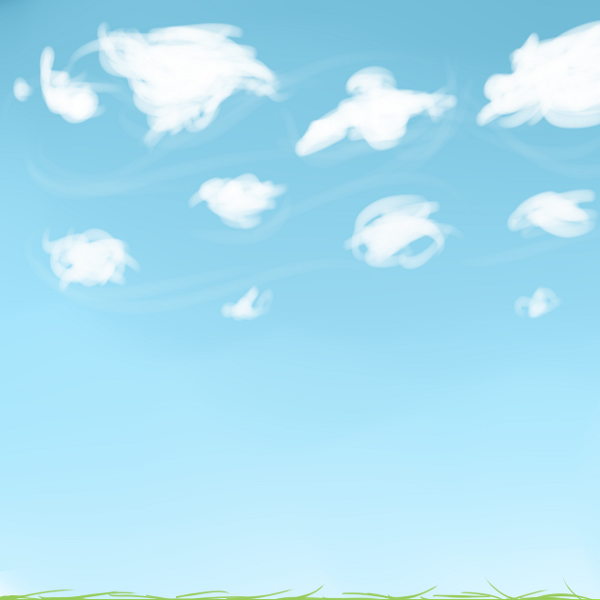
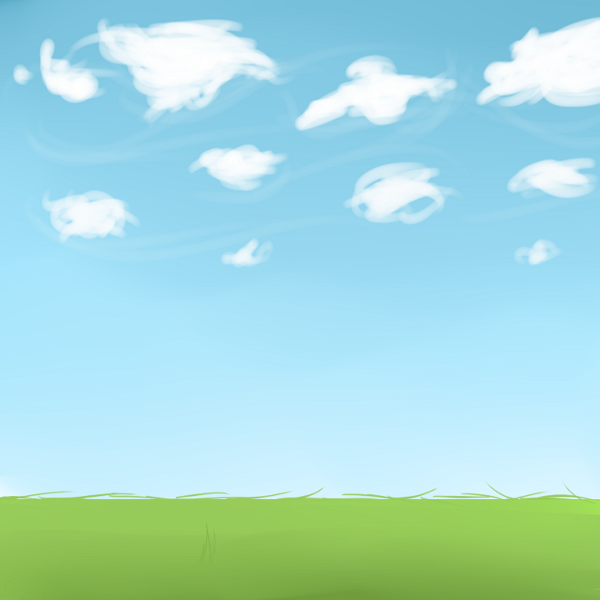
Fysiikat toimii. Kuplat spawnaa rajojen sisälle. Game Over -logiikka uupuu.

diff --git a/Peli/game/src/Game.js b/Peli/game/src/Game.js
@@ -1,10 +1,9 @@
 Bubble.Game = function(game){
 	// define variables for Bubble.Game
-	this._wallCollisionGroup = null;
-	this._bubbleCollisionGroup = null;
 	this._spawnBubbleTimer = 0;
 	this._fontStyle = null;
 	this._mouseBody = null;
+	this._bubbleArray = new Array();
 	// define Bubble variables to reuse them in Bubble.item functions
 	Bubble._scoreText = null;
 	Bubble._score = 0;
@@ -13,39 +12,30 @@ Bubble.Game.prototype = {
 	create: function(){
 		// start the physics engine
 		this.physics.startSystem(Phaser.Physics.P2JS);
-		this.physics.p2.gravity.y = 200;
-		// turn on impact events for the world
-    	this.physics.p2.setImpactEvents(true);
-    	this.physics.p2.defaultRestitution = 0.8;
-    	//this.physics.p2.gravity.y = 200;
-
-    	// create collision group for bubbles
-    	this._bubbleCollisionGroup = this.physics.p2.createCollisionGroup();
-    	this._wallCollisionGroup = this.physics.p2.createCollisionGroup();
-		this.physics.p2.updateBoundsCollisionGroup();
+    	this.physics.p2.restitution = 0.15;
+    	// set gravity for the world
+		this.physics.p2.gravity.y = 100;
 
 		// create array from backgrounds, randomly pick one & display it
 		var background = ['BG1','BG2','BG3','BG4','BG5','BG6'];
 		bgType = Math.floor(Math.random()*6);
 		this.add.sprite(0, 0, background[bgType]);
-		
-		// create the ground & side walls, enable physics & make them static
-		var _ground = this.add.sprite(300, 684, 'floor');
+		this.add.sprite(0,600, 'FloorBox');
+
+		// create the ground & side walls
+		var _ground = this.add.sprite(300, 700, 'floor');
 		var _wall_left = this.add.sprite(6,300,'wall_left');
 		var _wall_right = this.add.sprite(594,300,'wall_right');
+
+		// enable physics to objects & make them static
+		//TODO: SET FALSE FOR DEBUGGING
 		this.physics.p2.enable([ _ground, _wall_right, _wall_left ], false);
-		_ground.body.setCollisionGroup(this._wallCollisionGroup);
-		_ground.body.collides([this._bubbleCollisionGroup]);
 		_ground.body.static = true;
-		_wall_left.body.setCollisionGroup(this._wallCollisionGroup);
-		_wall_left.body.collides([this._bubbleCollisionGroup]);
 		_wall_left.body.static = true;
-		_wall_right.body.setCollisionGroup(this._wallCollisionGroup);
-		_wall_right.body.collides([this._bubbleCollisionGroup]);
 		_wall_right.body.static = true;
 
 		// create the player, add player animation & play the animation
-		var _ville = this.add.sprite(5, 600, 'monster-idle');
+		var _ville = this.add.sprite(15, 620, 'monster-idle');
 		_ville.animations.add('idle', [0,1,2,3,4,5,6,7,8,9,10,11,12], 10, true);
 		_ville.animations.play('idle');
 
@@ -64,9 +54,26 @@ Bubble.Game.prototype = {
 		this.add.sprite(0, 0, 'score-bg');
 		Bubble._scoreText = this.add.text(84, 29.5, "0", this._fontStyle);
 		
-		// spawn first bubble
-		Bubble.item.spawnBubble(this);
-
+		// spawn first 5 bubbles
+		for (var i = 0; i < 5; i++) {
+			// randomize bubble type
+			bubbleType = Math.floor(Math.random()*4);
+			//spawn new bubble
+			var bubble = this.add.sprite(this.rnd.integerInRange(15, 585), 98, 'bubbles');
+			// add new animation frame & play it
+			bubble.animations.add('anim', [bubbleType], 10, true);
+			bubble.animations.play('anim');
+			// enable bubble body for physic engine
+			//TODO: SET FALSE FOR DEBUGGING
+			this.physics.p2.enable(bubble, false);
+			// create circular collision and
+			bubble.body.setCircle(50);
+			// some rotation between 1 - 50 pixels
+			bubble.body.rotateLeft(Math.random()*50);
+			// add bubbles to an array
+			this._bubbleArray.push(bubble);
+		};
+			
 		// create physics body for mouse which will be used for dragging clicked bodies
 		this._mouseBody = new p2.Body();
 		this.physics.p2.world.addBody(this._mouseBody);
@@ -75,21 +82,39 @@ Bubble.Game.prototype = {
 	update: function(){
 		// update timer every frame
 		this._spawnBubbleTimer += this.time.elapsed;
+
 		// if spawn timer reach five second (5000 milliseconds)
 		if(this._spawnBubbleTimer > 5000) {
 			// reset it
 			this._spawnBubbleTimer = 0;
-			// and spawn new bubble
-			Bubble.item.spawnBubble(this);
+
+			// spawn new bubble with randomize bubble type
+			bubbleType = Math.floor(Math.random()*4);
+			var bubble = this.add.sprite(this.rnd.integerInRange(115, 485), 98, 'bubbles');
+			bubble.animations.add('anim', [bubbleType], 10, true);
+			bubble.animations.play('anim');
+			//TODO: SET FALSE FOR DEBUGGING
+			this.physics.p2.enable(bubble, false);
+			bubble.body.setCircle(50);
+			bubble.body.rotateRight(Math.random()*50);
+			this._bubbleArray.push(bubble);
 		}
+		// rotate every bubble for 3 pixels to left in every frame
+		for (var i = 0; i < this._bubbleArray.length; i++) {
+			this._bubbleArray[i].body.rotateLeft(3);
+
+			var bubblePos = [this.physics.p2.pxmi(bubble.position.x), this.physics.p2.pxmi(bubble.position.y)];
+
+			if (true) {};
+		};
 	},
 };
 
 /* MOUSE FUNCTIONS */
 Bubble.mouse = {
-	click: function(pointer, bubble) {
+	click: function(pointer) {
 
-		var bodies = this.physics.p2.hitTest(pointer.position, [bubble.body]);
+		var bodies = this.physics.p2.hitTest(pointer.position, this._bubbleArray);
 		// p2 uses different coordinate system, so convert the pointer position to p2's coordinate system
 		var physicsPos = [this.physics.p2.pxmi(pointer.position.x), this.physics.p2.pxmi(pointer.position.y)];
 	
@@ -116,49 +141,5 @@ Bubble.mouse = {
 		mouseBody.position[0] = game.physics.p2.pxmi(pointer.position.x);
 		mouseBody.position[1] = game.physics.p2.pxmi(pointer.position.y);
 
-	}
-};
-
-/* BUBBLE FUNCTIONS */
-Bubble.item = {
-	spawnBubble: function(game){
-		// calculate drop position & define the offset for every bubble
-		var dropPos = Math.floor((Math.random()*(Bubble.GAME_WIDTH-115)) + 115);
-	//	var dropOffset = [-75,-70,-75,-70];
-		
-		// randomize bubble type & create new bubble
-		bubbleType = Math.floor(Math.random()*4);
-		var bubble = game.add.sprite(dropPos, 98, 'bubbles');
-
-		// add new animation frame & play it
-		bubble.animations.add('anim', [bubbleType], 10, true);
-		bubble.animations.play('anim');
-
-		// enable bubble body for physic engine and add specifications
-		game.physics.p2.enable(bubble, false);
-
-		bubble.body.clearShapes();
-		bubble.body.setCollisionGroup(game._bubbleCollisionGroup);
-		bubble.body.collides([game._bubbleCollisionGroup, game._wallCollisionGroup]);
-			//bubble.body.setCircle(98);
-			//bubble.body.setRectangle(15, 15, 0, 0);
-			//bubble.body.gravity.y = 200;
-		
-		// attach pointer events for mouse inputs
-			//game.input.onDown.add(Bubble.mouse.click, game, bubble);
-			//game.input.onUp.add(Bubble.mouse.release, game);
-			//game.input.addMoveCallback(Bubble.mouse.move, game);
-	},
-	clickBubble: function(bubble){
-		// kill the bubble when it's clicked
-		bubble.kill();
-		// add points to the score
-		Bubble._score += 1;
-		// update score text
-		Bubble._scoreText.setText(Bubble._score);
-	},
-	removeBubbles: function(bubble){
-		// kill the bubble
-		bubble.kill();
 	}
 };

diff --git a/Peli/game/src/Preload.js b/Peli/game/src/Preload.js
@@ -16,10 +16,11 @@ Bubble.Preload.prototype = {
         this.load.image('BG4', 'assets/BG_4.png');
         this.load.image('BG5', 'assets/BG_5.png');
         this.load.image('BG6', 'assets/BG_6.png');
-        this.load.image('wall_left', 'assets/BG_8_Left.png')
-        this.load.image('wall_right', 'assets/BG_8_Right.png')
+        this.load.image('wall_left', 'assets/BG_Left.png')
+        this.load.image('wall_right', 'assets/BG_Right.png')
         this.load.image('background_menu', 'assets/BG_START.png');
-        this.load.image('floor', 'assets/BG_Floor.png');
+        this.load.image('floor', 'assets/BG_Ground.png');
+        this.load.image('FloorBox', 'assets/BG_FloorBox.png');
         this.load.image('score-bg', 'assets/score-bg.png');
         // load spritesheets
         this.load.spritesheet('bubbles', 'assets/Bubble_all.png', 100, 98);
